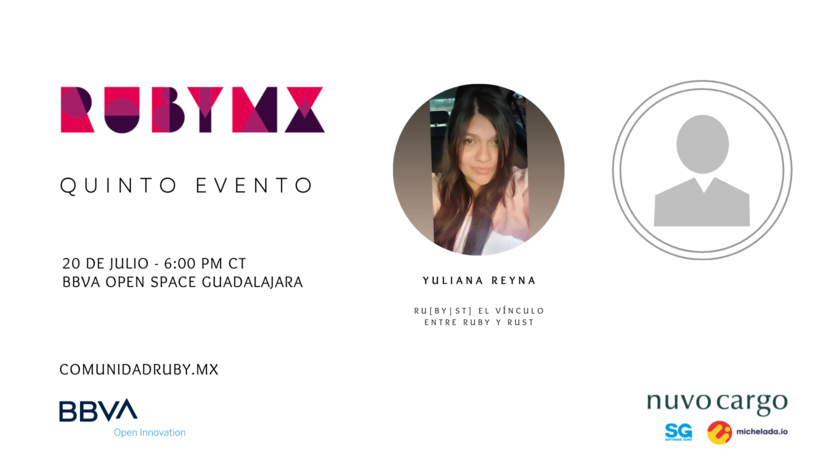
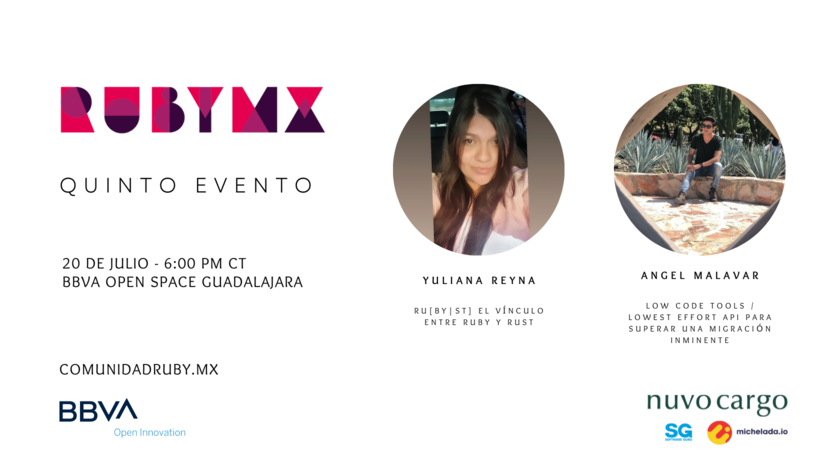
Add second speaker info

Changed region(s): [[0.7317, 0.1515, 0.9756, 0.6061], [0.7622, 0.6364, 0.9451, 0.7576]]

diff --git a/src/eventos.es.md b/src/eventos.es.md
@@ -31,7 +31,7 @@ Detalles del streaming el día del evento en nuestras redes sociales
 
 7:10 Break
 
-7:20 Segunda charla
+7:20 Low Code Tools / Lowest Effort API para superar una migración inminente - Ángel Malavar
 
 7:50 Avisos generales
 
@@ -44,6 +44,10 @@ Detalles del streaming el día del evento en nuestras redes sociales
 Yuliana Reyna
 
 Software Developer, entusiasta del Open Source, me gusta hablar sobre Diversidad e Inclusión, por siempre aprendiz, viajera, y amante del Ramen y los tacos.
+
+Ángel Malavar
+
+Ingeniero en Informática, egresado de la Universidad Politécnica del Estado de Morelos. Ha trabajado como Generalist Engineer con diferentes roles, involucrándose en varios aspectos del ciclo de desarrollo de producto y software en sí con Javascript como lenguaje de programación principal, entusiasta de Micro-Services y de la cultura de DevOps. Actualmente en Nuvocargo como tech lead del equipo de Shippers, donde comenzó a desarrollar profesionalmente con RoR, y disfruta de los retos de la digitalización de logística, ademas de apoyar al equipo para lograr tanto el crecimiento de Nuvocargo como el de todos profesionalmente.
 
 ---
 

diff --git a/src/events.en.md b/src/events.en.md
@@ -31,7 +31,7 @@ Live streaming details the day of the event in our social networks
 
 7:10 Break
 
-7:20 Second talk
+7:20 Low Code Tools / Lowest Effort API to overcome an imminent migration - Ángel Malavar
 
 7:50 General announcements
 
@@ -44,6 +44,10 @@ Live streaming details the day of the event in our social networks
 Yuliana Reyna
 
 Software Developer, Open Source enthusiast, she likes to talk aboud diversity and inclusion, forever a learner, traveler, and ramen and taco lover.
+
+Ángel Malavar
+
+Computer Engineer, graduated from the Polytechnic University of the State of Morelos. He has worked as a Generalist Engineer with different roles, getting involved in various aspects of the product and software development cycle itself with Javascript as the main programming language, enthusiast of Micro-Services and DevOps culture. Currently at Nuvocargo as a tech lead for the Shippers team, where he began to develop professionally with RoR, and enjoys the challenges of logistics digitization, in addition to supporting the team to achieve both Nuvocargo's growth and everyone professionally.
 
 ---
 
